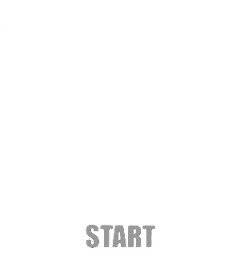
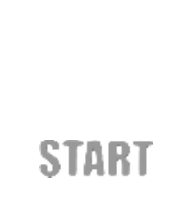
add entrance UI!

Changed region(s): [[0.1875, 0.625, 0.8125, 0.9062]]

diff --git a/src/App.cpp b/src/App.cpp
@@ -1,4 +1,4 @@
-#include "App.hpp"
+#include "App.hpp"   // 假设你在 include/Bullet_Storm/App.hpp
 
 #include "ResourceManager.hpp"
 #include "Util/Text.hpp"
@@ -18,9 +18,16 @@ void App::Menu() {
         m_Renderer = std::make_unique<Util::Renderer>(
           std::vector<std::shared_ptr<Util::GameObject>>{ std::make_shared<Util::GameObject>(m_Root) }
         );
+
+        m_MenuBackground = std::make_shared<Util::GameObject>(
+    std::make_shared<Util::Image>(RESOURCE_DIR "/entrance/background.png"),
+        /* z-index */ 0);
+        // 如果背景圖要充滿畫面，通常 translation = {0,0} 就好（中心對齊）
+        m_MenuBackground->m_Transform.translation = { 0.0f, 0.0f };
+        m_Renderer->AddChild(m_MenuBackground);
         m_MenuTitle = std::make_shared<Util::GameObject>(
           std::make_shared<Util::Image>(RESOURCE_DIR "/entrance/title.png"), 100);
-        m_MenuTitle->m_Transform.translation = {0, 100};
+        m_MenuTitle->m_Transform.translation = {0, 0};
         m_StartButton = std::make_shared<Util::GameObject>(
           std::make_shared<Util::Image>(RESOURCE_DIR "/entrance/start.png"), 100);
         m_StartButton->m_Transform.translation = {0, -50};
@@ -46,8 +53,10 @@ void App::Menu() {
         // 清掉 menu 圖片
         m_Renderer->RemoveChild(m_MenuTitle);
         m_Renderer->RemoveChild(m_StartButton);
+        m_Renderer->RemoveChild(m_MenuBackground);
         m_MenuTitle.reset();
         m_StartButton.reset();
+        m_MenuBackground.reset();
         m_ButtonPressed = false;
 
         // 切到 START 做遊戲初始化
@@ -146,6 +155,8 @@ void App::Update() {
 
 
     //TODO: do your things here and delete this line <3
+
+
     const float speed = 10.0f; // 控制移動速度
     float x = m_Player->GetPosition().x;
     float y = m_Player->GetPosition().y;
@@ -340,6 +351,9 @@ void App::Update() {
             m_PowerUps.push_back(pup);
             m_Renderer->AddChild(pup);
         }
+
+        m_DefeatedThisLevel += 1;
+        m_PlayerScore = (m_Level - 1) * 0 + m_DefeatedThisLevel * 10; // 或直接累加：m_PlayerScore += 10;
     }
     for (auto &pup : m_PowerUps) {
         pup->Update();
@@ -431,6 +445,7 @@ void App::Update() {
 
 
 }
+
 
 void App::End() { // NOLINT(this method will mutate members in the future)
 

diff --git a/include/App.hpp b/include/App.hpp
@@ -23,15 +23,21 @@ public:
         MENU,
         START,
         UPDATE,
+        LEVEL_END,
         RESULT,
         END,
     };
-    App() : m_CurrentState(State::MENU) {}   // 初始進入 Menu
+    App() :
+        m_Level(1),
+        m_DefeatedThisLevel(0),
+        m_PlayerScore(0)
+    {}
 
     State GetCurrentState() const { return m_CurrentState; }
 
     void Start();
     void Menu();
+
 
     void Update();
     void result();
@@ -41,8 +47,17 @@ public:
 private:
     void ValidTask();
 
+    // 關卡相關
+    int m_Level;                    // 1,2,3
+    int m_DefeatedThisLevel;        // 本關擊殺敵機數
+    int m_PlayerScore;              // 總分
+
+    // 通用文字顯示
+    std::shared_ptr<Util::GameObject> m_LevelEndText ;
+
     std::shared_ptr<Util::GameObject> m_MenuTitle;
     std::shared_ptr<Util::GameObject> m_StartButton;
+    std::shared_ptr<Util::GameObject> m_MenuBackground;
     bool m_ButtonPressed = false;
     bool m_MenuInitialized = false;
 
